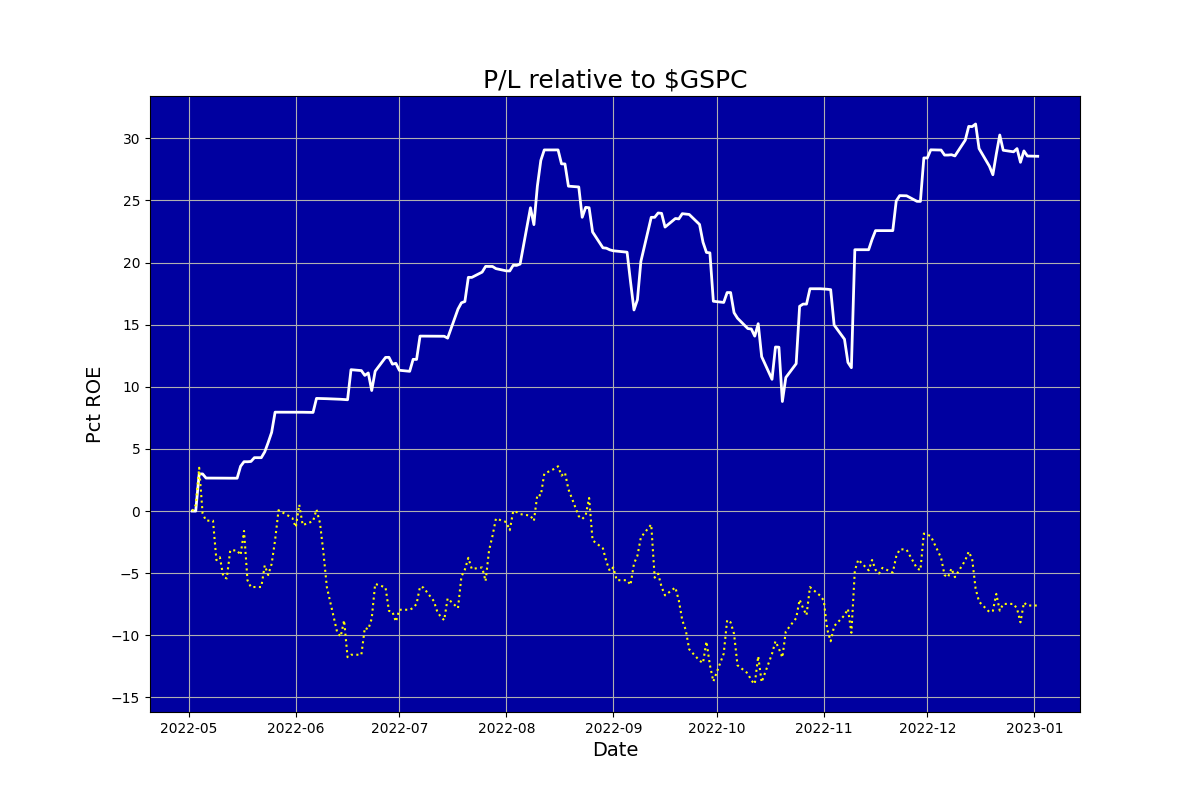
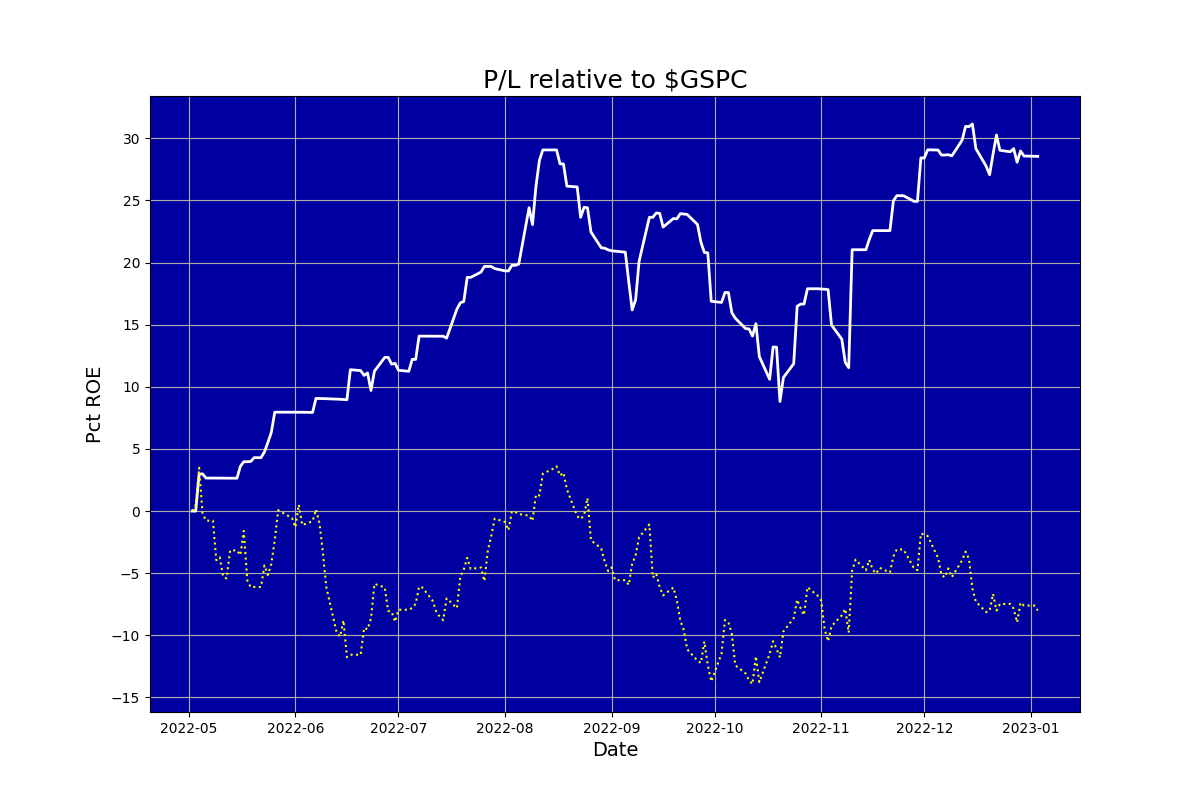
Updated

diff --git a/ig_report.html b/ig_report.html
@@ -1,1 +1,1 @@
-<html><body><center><h1>Auriel (never knowingly overbought)</h1></center><table cols=2><tr><td><img src=ig_pl.png></td><td><table cols=2><tr><td colspan=2><b><br>Snapshot</b></td></tr><tr><td>Last updated:&nbsp;&nbsp;&nbsp;</td><td>2023-01-02 15:56</td></tr><tr><td>Margin:&nbsp;&nbsp;&nbsp;</td><td>0.06</td></tr><tr><td>Cushion:&nbsp;&nbsp;&nbsp;</td><td>-3388.74</td></tr><tr><td>Last closed trade:&nbsp;&nbsp;&nbsp;</td><td>2023-01-02</td></tr><tr><td colspan=2><b><br>Positions</b></td></tr><tr><td>Mean days to new high:&nbsp;&nbsp;&nbsp;</td><td>12.08</td></tr><tr><td colspan=2><b><br>Trades</b></td></tr><tr><td>Traded days:&nbsp;&nbsp;&nbsp;</td><td>178</td></tr><tr><td>Profitable days pct:&nbsp;&nbsp;&nbsp;</td><td>34.27</td></tr><tr><td>Days beat S&P pct:&nbsp;&nbsp;&nbsp;</td><td>57.99</td></tr><tr><td>Profitable months pct:&nbsp;&nbsp;&nbsp;</td><td>77.78</td></tr><tr><td colspan=2><b><br>Performance</b></td></tr><tr><td>Pct median monthly ROE:&nbsp;&nbsp;&nbsp;</td><td>1.43</td></tr><tr><td>Pct annualised ROE:&nbsp;&nbsp;&nbsp;</td><td>37.14</td></tr><tr><td colspan=2><b><br>Risk</b></td></tr><tr><td>Volatility pct:&nbsp;&nbsp;&nbsp;</td><td>19.42</td></tr><tr><td>Benchmark volatility pct:&nbsp;&nbsp;&nbsp;</td><td>24.96</td></tr><tr><td>Sharpe ratio (RFR 5.0%):&nbsp;&nbsp;&nbsp;</td><td>1.75</td></tr><tr><td>Sortino ratio (RFR 5.0%):&nbsp;&nbsp;&nbsp;</td><td>2.89</td></tr><tr><td>Calmar ratio:&nbsp;&nbsp;&nbsp;</td><td>1.83</td></tr><tr><td>Worst drawdown pct:&nbsp;&nbsp;&nbsp;</td><td>-0.20</td></tr><tr><td>Recovery days from worst drawdown:&nbsp;&nbsp;&nbsp;</td><td>31.00</td></tr><tr><td>Beat benchmark +ve periods pct:&nbsp;&nbsp;&nbsp;</td><td>81.08</td></tr><tr><td>Beat benchmark -ve periods pct:&nbsp;&nbsp;&nbsp;</td><td>89.55</td></tr><tr><td>Correlation with benchmark:&nbsp;&nbsp;&nbsp;</td><td>0.42</td></tr></table></td></tr></table></body></html>
+<html><body><center><h1>Auriel (never knowingly overbought)</h1></center><table cols=2><tr><td><img src=ig_pl.png></td><td><table cols=2><tr><td colspan=2><b><br>Snapshot</b></td></tr><tr><td>Last updated:&nbsp;&nbsp;&nbsp;</td><td>2023-01-03 15:58</td></tr><tr><td>Margin:&nbsp;&nbsp;&nbsp;</td><td>0.39</td></tr><tr><td>Cushion:&nbsp;&nbsp;&nbsp;</td><td>-3402.75</td></tr><tr><td>Last closed trade:&nbsp;&nbsp;&nbsp;</td><td>2023-01-03</td></tr><tr><td colspan=2><b><br>Positions</b></td></tr><tr><td>Mean days to new high:&nbsp;&nbsp;&nbsp;</td><td>12.05</td></tr><tr><td colspan=2><b><br>Trades</b></td></tr><tr><td>Traded days:&nbsp;&nbsp;&nbsp;</td><td>179</td></tr><tr><td>Profitable days pct:&nbsp;&nbsp;&nbsp;</td><td>34.08</td></tr><tr><td>Days beat S&P pct:&nbsp;&nbsp;&nbsp;</td><td>57.65</td></tr><tr><td>Profitable months pct:&nbsp;&nbsp;&nbsp;</td><td>77.78</td></tr><tr><td colspan=2><b><br>Performance</b></td></tr><tr><td>Pct median monthly ROE:&nbsp;&nbsp;&nbsp;</td><td>1.43</td></tr><tr><td>Pct annualised ROE:&nbsp;&nbsp;&nbsp;</td><td>36.92</td></tr><tr><td colspan=2><b><br>Risk</b></td></tr><tr><td>Volatility pct:&nbsp;&nbsp;&nbsp;</td><td>19.36</td></tr><tr><td>Benchmark volatility pct:&nbsp;&nbsp;&nbsp;</td><td>24.91</td></tr><tr><td>Sharpe ratio (RFR 5.0%):&nbsp;&nbsp;&nbsp;</td><td>1.74</td></tr><tr><td>Sortino ratio (RFR 5.0%):&nbsp;&nbsp;&nbsp;</td><td>2.88</td></tr><tr><td>Calmar ratio:&nbsp;&nbsp;&nbsp;</td><td>1.82</td></tr><tr><td>Worst drawdown pct:&nbsp;&nbsp;&nbsp;</td><td>-0.20</td></tr><tr><td>Recovery days from worst drawdown:&nbsp;&nbsp;&nbsp;</td><td>31.00</td></tr><tr><td>Beat benchmark +ve periods pct:&nbsp;&nbsp;&nbsp;</td><td>81.19</td></tr><tr><td>Beat benchmark -ve periods pct:&nbsp;&nbsp;&nbsp;</td><td>89.67</td></tr><tr><td>Correlation with benchmark:&nbsp;&nbsp;&nbsp;</td><td>0.41</td></tr></table></td></tr></table></body></html>
